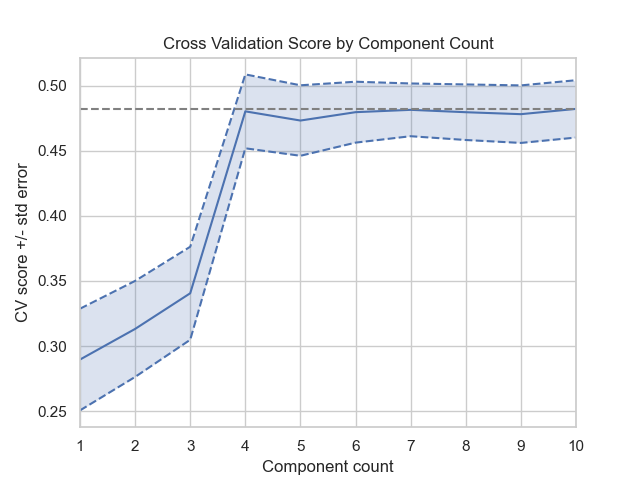
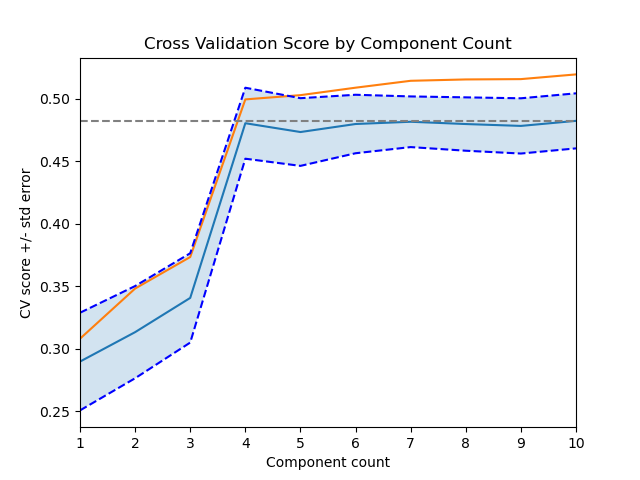
Plot update

diff --git a/Q4_hw4_diabetes.py b/Q4_hw4_diabetes.py
@@ -31,16 +31,17 @@ nc = [1, 2, 3, 4, 5, 6, 7, 8, 9, 10]
 tuned_parameters = [{"pca__n_components": nc}]
 n_folds = 5
 
-clf = GridSearchCV(pcr, tuned_parameters, cv=n_folds, refit=False)
+clf = GridSearchCV(pcr, tuned_parameters, cv=n_folds, refit=False, return_train_score=True)
 clf.fit(X, y)
-#train_scores = clf.cv_results_['mean_train_score']
+train_scores = clf.cv_results_['mean_train_score']
 scores = clf.cv_results_["mean_test_score"]
 scores_std = clf.cv_results_["std_test_score"]
 
-#print('Train ' + str(train_scores))
+print('Train ' + str(train_scores))
 print('Test ' + str(scores))
 
 plt.plot(nc, scores)
+plt.plot(nc, train_scores)
 
 std_error = scores_std / np.sqrt(n_folds)
 
